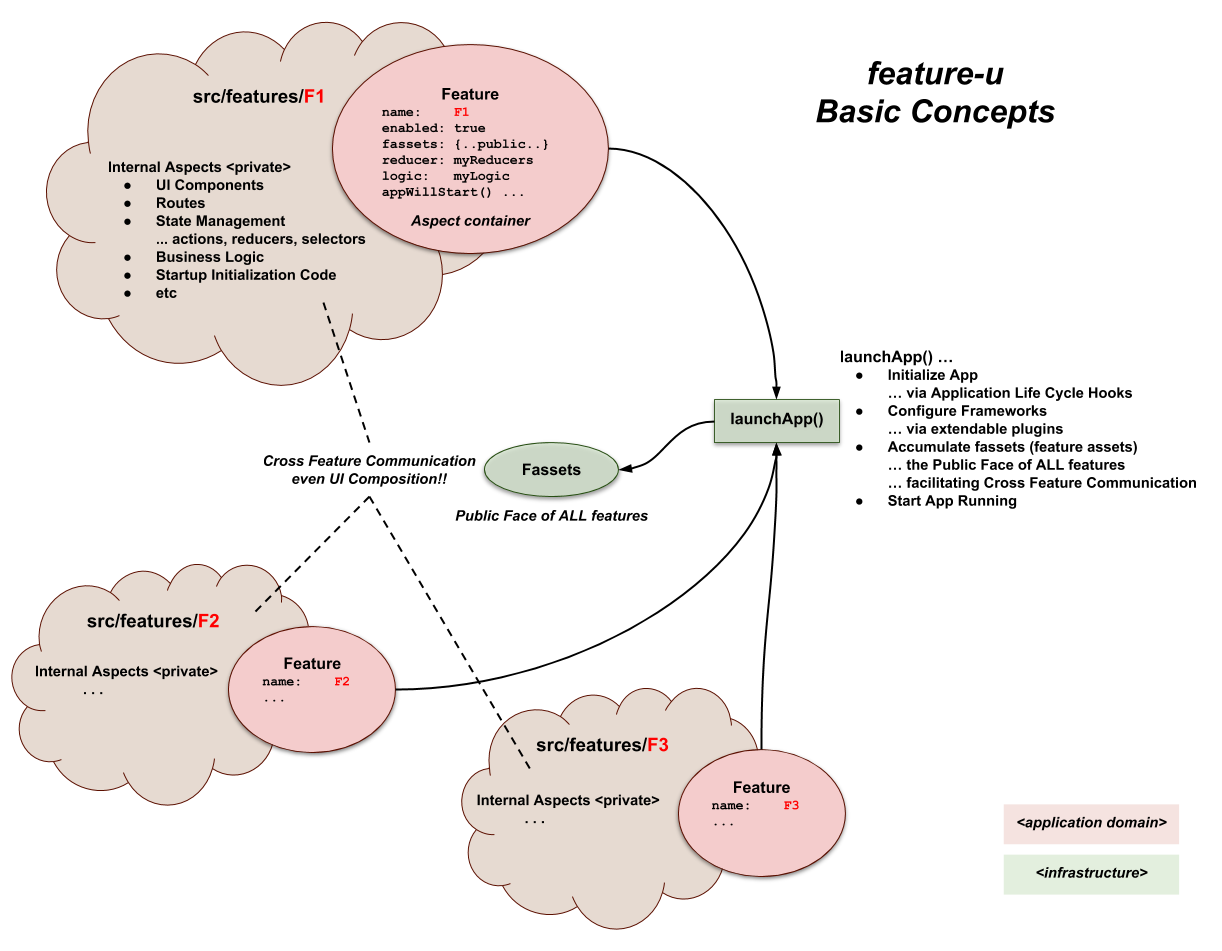
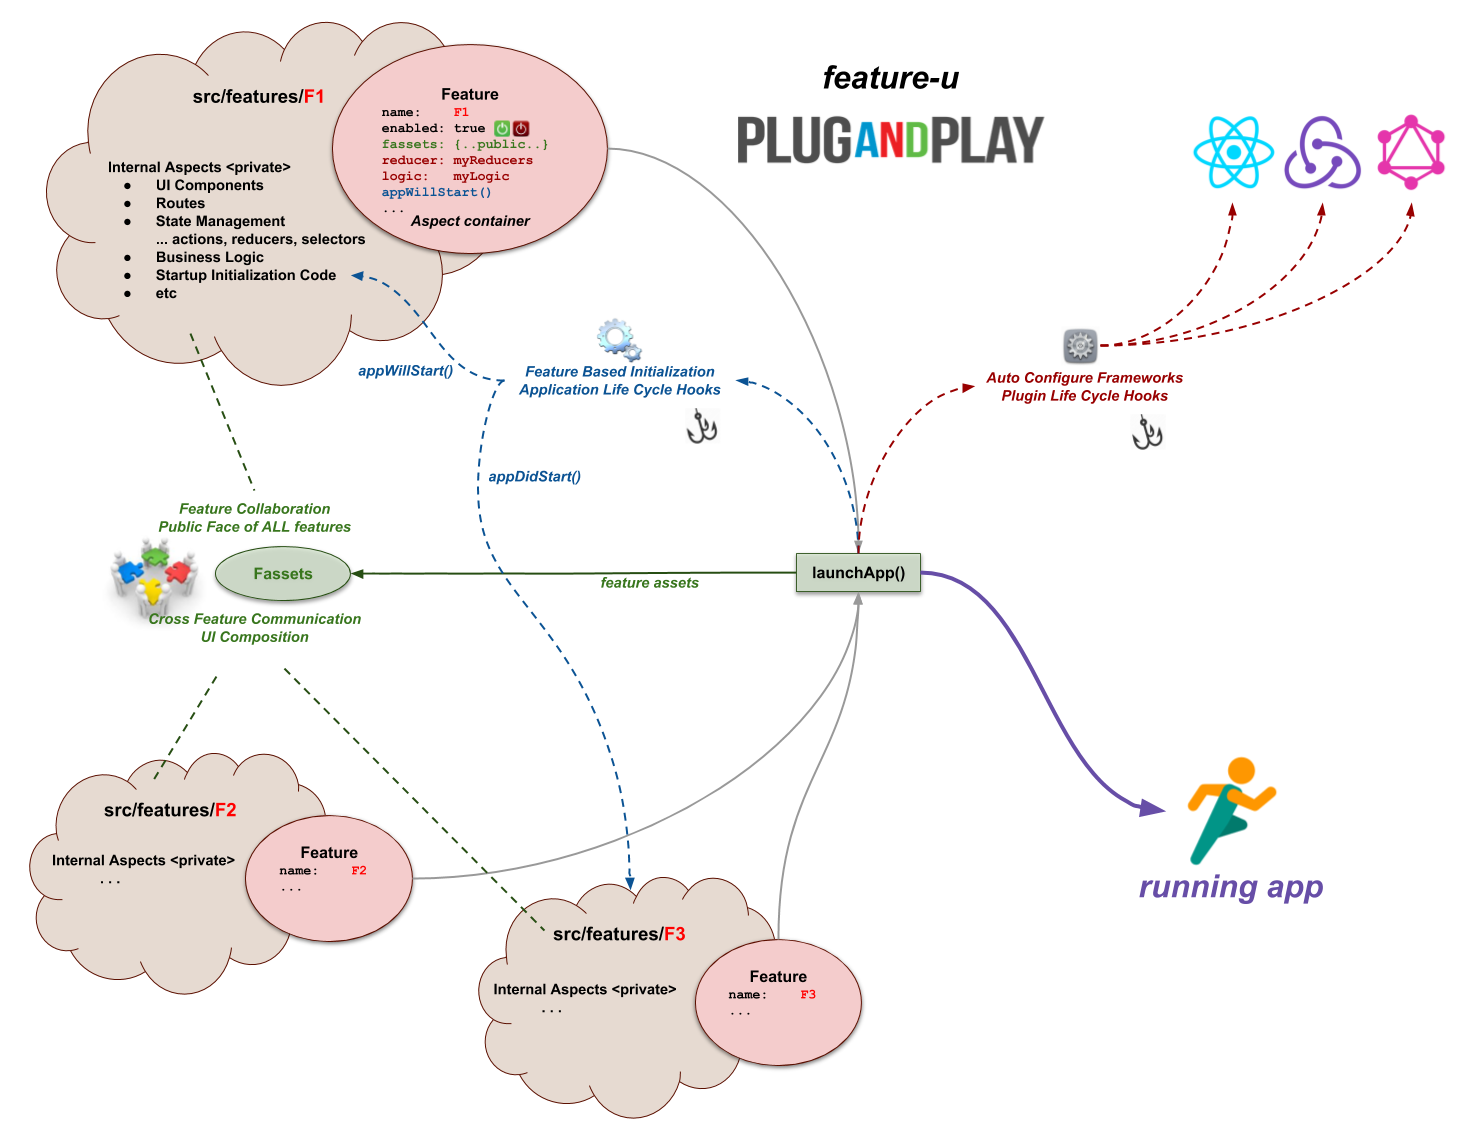
improved the concepts and feature-segregation diagrams

diff --git a/docs/concepts.md b/docs/concepts.md
@@ -32,12 +32,17 @@ section_.
 
 ## Segregating Features
 
-If you are like me, when you think about feature-based development,
-the first thing that comes to mind is directories.  By segregating
-your features into individual directories, there is a semblance of
-isolation.
+If you are like me, when you think about feature-based development, the first
+thing that comes to mind is to isolate your code into feature directories.
 
-<p align="center"><img class="diagram" src="img/featureSegregation.png" alt="Feature Segregation" width="80%"></p>
+<p align="center"><img class="diagram" src="img/withTypesOrFeatures.png" alt="Project Organization - with types or features" width="90%"></p>
+
+In doing this your code is organized by what it accomplishes (i.e. features),
+rather than what it is (i.e. components, routes, logic, actions, reducers,
+selectors, etc.).
+
+By segregating your features into individual directories, there is
+a semblance of isolation.
 
 
 ## Feature Goals
@@ -672,6 +677,7 @@ You can find more information about this topic in
 
 ## In Summary
 
-The following diagram summarizes **feature-u**'s Basic Concepts
+The following diagram summarizes **feature-u**'s Basic Concepts _(as
+discussed above)_:
 
 <p align="center"><img class="diagram" src="img/concepts.png" alt="Basic Concepts" width="100%"></p>

diff --git a/docs/history.md b/docs/history.md
@@ -115,10 +115,13 @@ Release           | What                                   | *When*
 
 1. **Docs**: Documentation improvements include:
 
+   - Improved the concepts and feature-segregation diagrams.
    - Added a fundamental artifacts introduction to the {{book.guide.benefits}} chapter.
+
 
 1. **Internal**: Docs generation now uses the formal [folding-menu
    gitbook plugin](https://github.com/KevinAst/gitbook-plugin-folding-menu)
+
 
 1. **MORE**: ??
 
